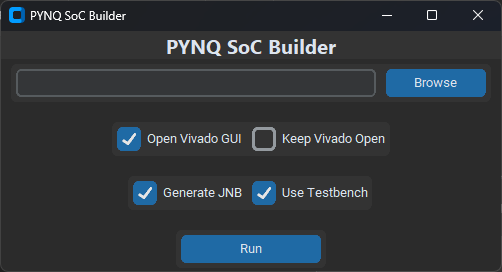
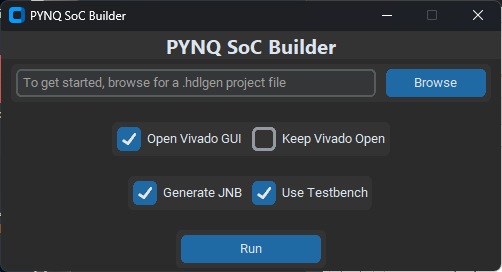
added placeholder txt, updated screenshot

diff --git a/main_gui.py b/main_gui.py
@@ -132,7 +132,7 @@ class Page1(ctk.CTkFrame):
             file_path = ctk.filedialog.askopenfilename(filetypes=[("HDLGen Files", "*.hdlgen")])
             entry_path.delete(0, ctk.END)
             entry_path.insert(0, file_path)
-        entry_path = ctk.CTkEntry(row_1_frame, width=360)
+        entry_path = ctk.CTkEntry(row_1_frame, width=360, placeholder_text="To get started, browse for a .hdlgen project file")
         browse_button = ctk.CTkButton(row_1_frame, text="Browse", command=browse_files, width=100)
         entry_path.grid(row=1, column=0, padx=5, pady=5)
         browse_button.grid(row=1, column=1, padx=5, pady=5)
